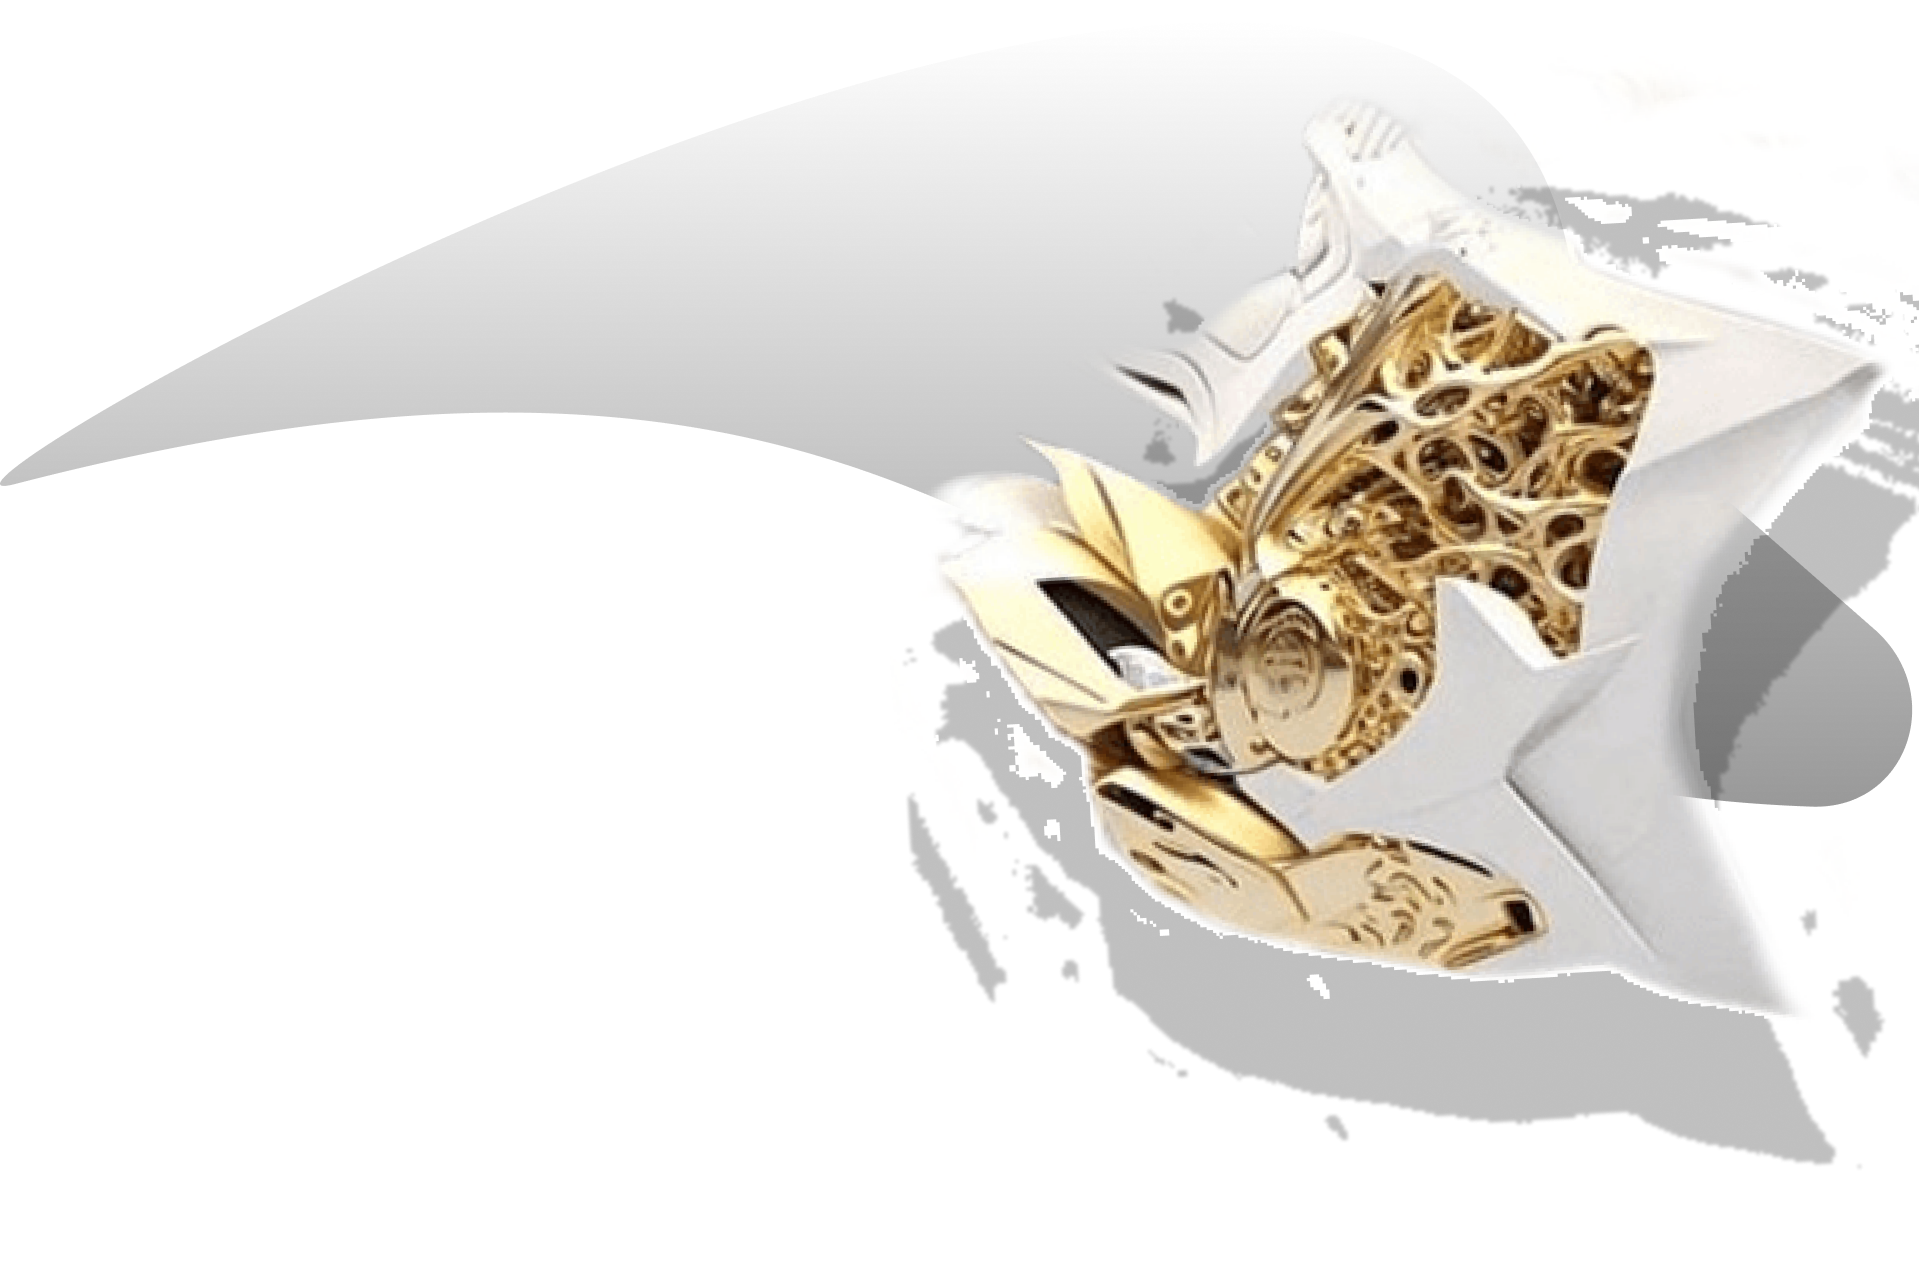
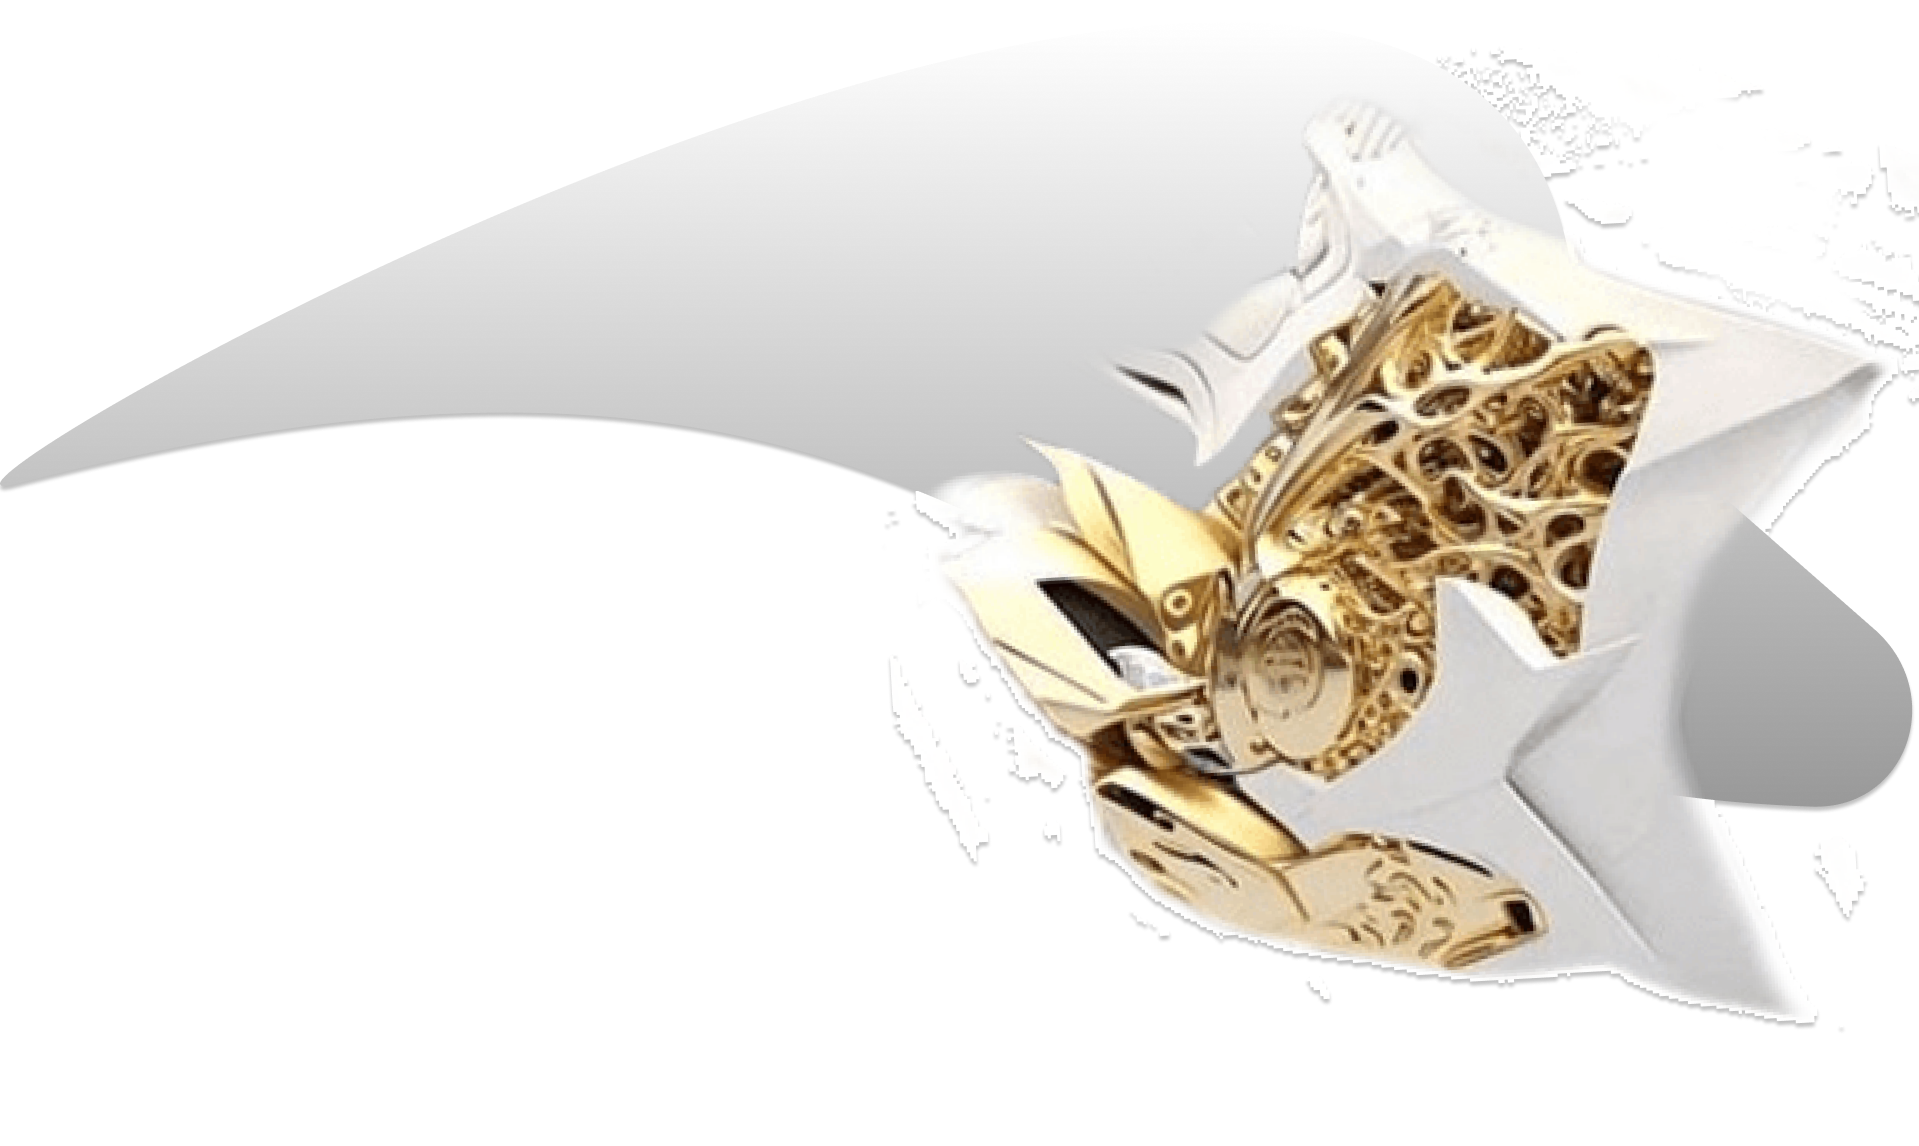
Add files via upload
J'ai détouré correctement toutes mes images et modifié le système de tri (filtrage de prix).

Changed region(s): [[0.0, 0.0611, 1.0, 0.9162]]

diff --git a/style_details.css b/style_details.css
@@ -101,7 +101,7 @@ p {
     font-family: "Nokora", sans-serif;
     font-size: 1.2rem;
     margin-left: 180px;
-    margin-right: 600px;
+    margin-right: 500px;
     margin-bottom: 35px;
     word-spacing: 3px;
 }
@@ -123,7 +123,7 @@ p {
 }
 
 .wheel img {
-    width: 1000px;
+    width: 850px;
     margin-left: 218px;
 }
 
@@ -138,14 +138,15 @@ p {
     font-family: "Nokora", sans-serif;
     font-size: 1.2rem;
     width: 50%; /* Définit une largeur pour le texte */
-    margin-left: 350px;
+    margin-left: 300px;
     margin-top: 100px;
+    margin-bottom: 200px;
     white-space: pre-wrap; /* Pour conserver les sauts de ligne */
 }
 
 
 .motor img {
-    width: 900px; /* Définit la largeur de l'image */
+    width: 850px; /* Définit la largeur de l'image */
     margin-right: -200px; /* Décale l'image vers la gauche */
 }
 

diff --git a/style_catalogue.css b/style_catalogue.css
@@ -21,7 +21,7 @@
 
 .filtre {
   padding-top: 20px;
-  padding-bottom: 100px;
+  padding-bottom: 50px;
 }
 
 .filtre select {

diff --git a/catalogue.php b/catalogue.php
@@ -58,11 +58,11 @@
 
     <h2 class="sentence">UNE <span class="special-font">MOTO</span> INCROYABLE POUR UNE <span class="special-font">ODYSSÉE</span> INOUBLIABLE</h2>
     <div class="filtre">
-        <label for="selectOption">Choose an option:</label>
+        <label for="selectOption">Filtre</label>
         <select name="tri" id="tri">
-            <option value="default" selected>Choose an option</option>
-            <option value="date_asc">Option 1</option>
-            <option value="date_desc">Option 2</option>
+            <option value="default" selected>Aucun</option>
+            <option value="date_asc">Prix décroissant</option>
+            <option value="date_desc">Prix croissant</option>
         </select>
     </div>
 

diff --git a/details.php b/details.php
@@ -70,12 +70,6 @@ $images = $ImagemotosStatement->fetchAll(PDO::FETCH_ASSOC);
     <h1 class="upside">DIAMANT</h1>
   </div>
 
-  <!-- ----------- Bouton réserver ----------- -->
-  <div class="button-container">
-  <?php
-     echo '<a href="reservation.php?id='.$idMoto.'">RÉSERVER</a>';
-     ?>
-  </div>
 
   <!-- ----------- Texte présentation de la moto ----------- -->
   <div class="container">
